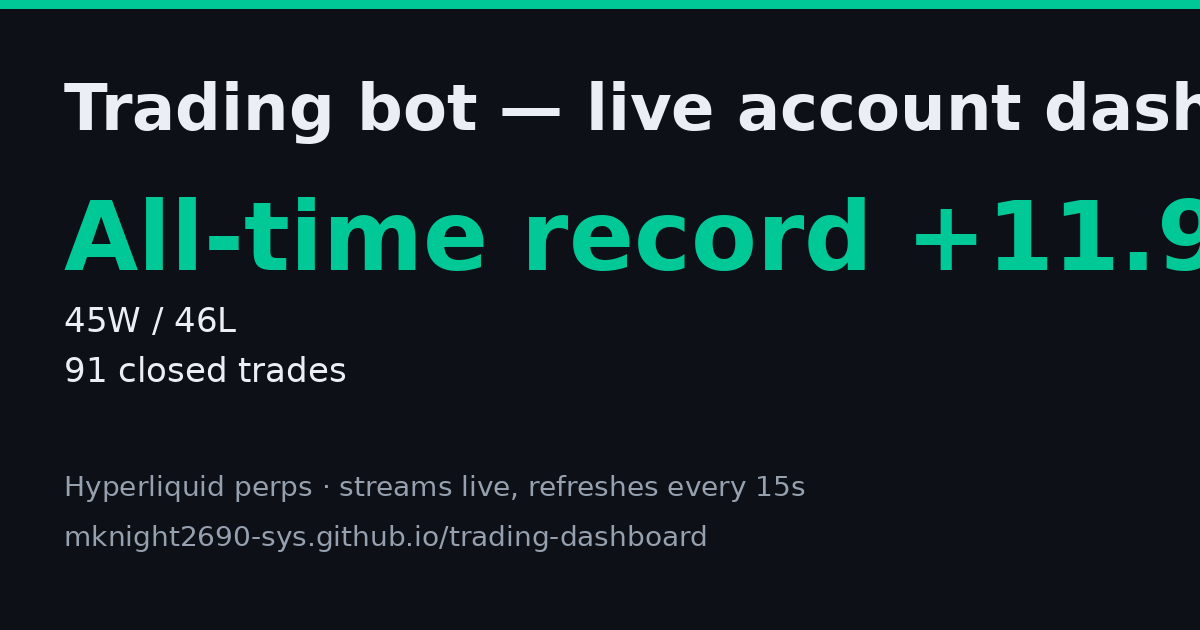
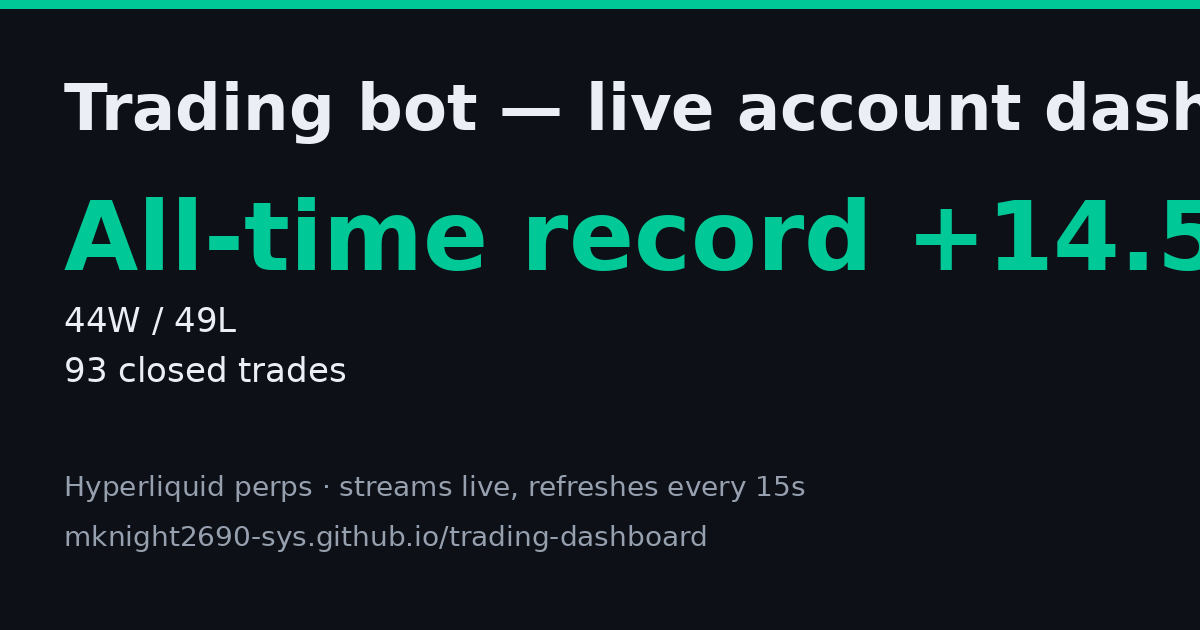
Update link preview stats: 44W / 49L +14.53R (93 trades)

diff --git a/index.html b/index.html
@@ -8,14 +8,14 @@
 <title>KnightTrader-Muse — Trading Dashboard</title>
 <meta property="og:type" content="website" />
 <meta property="og:title" content="KnightTrader-Muse — live trading dashboard" />
-<meta property="og:description" content="Live Hyperliquid account the trading bot trades on. All-time record +11.90R (45W / 46L, 91 trades). Streams live and refreshes every 15 seconds." />
+<meta property="og:description" content="Live Hyperliquid account the trading bot trades on. All-time record +14.53R (44W / 49L, 93 trades). Streams live and refreshes every 15 seconds." />
 <meta property="og:url" content="https://mknight2690-sys.github.io/trading-dashboard/" />
 <meta property="og:image" content="https://mknight2690-sys.github.io/trading-dashboard/preview.png" />
 <meta property="og:image:width" content="1200" />
 <meta property="og:image:height" content="630" />
 <meta name="twitter:card" content="summary_large_image" />
 <meta name="twitter:title" content="KnightTrader-Muse — live trading dashboard" />
-<meta name="twitter:description" content="Live Hyperliquid account the trading bot trades on. All-time record +11.90R (45W / 46L, 91 trades). Streams live and refreshes every 15 seconds." />
+<meta name="twitter:description" content="Live Hyperliquid account the trading bot trades on. All-time record +14.53R (44W / 49L, 93 trades). Streams live and refreshes every 15 seconds." />
 <meta name="twitter:image" content="https://mknight2690-sys.github.io/trading-dashboard/preview.png" />
 <link rel="preconnect" href="https://fonts.googleapis.com" />
 <link rel="preconnect" href="https://fonts.gstatic.com" crossorigin />
